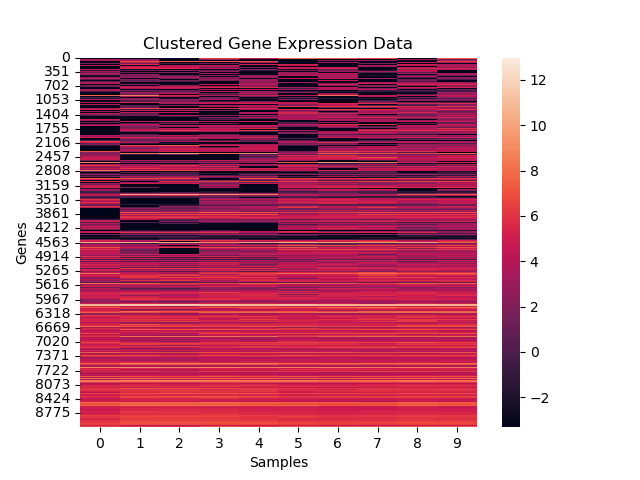
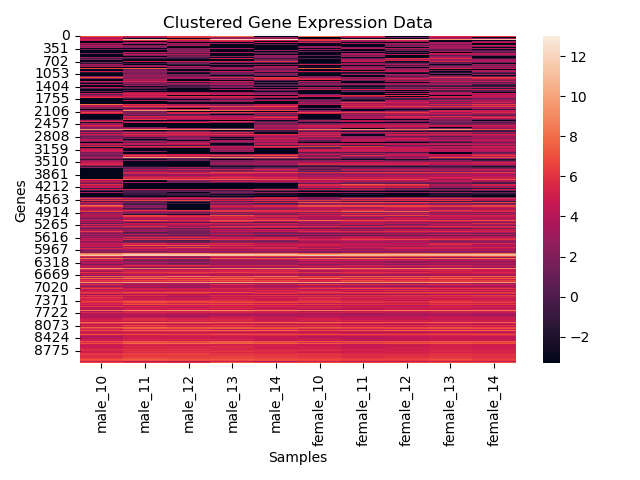
dendrogram added

diff --git a/week9/week9.py b/week9/week9.py
@@ -55,20 +55,22 @@ gene_arr = subset_fpkm_log[leaves_list2]
 sample_arr = gene_arr.T[leaves_list]
 samp_plot = sample_arr.T
 
-# # heatmap
+# heatmap
 fig, ax = plt.subplots()
-ax = sns.heatmap(samp_plot)
+ax = sns.heatmap(samp_plot,
+                xticklabels=col_names[1:])
 ax.set_xlabel("Samples")
 ax.set_ylabel("Genes")
 plt.title("Clustered Gene Expression Data")
+plt.tight_layout()
 plt.savefig("genes_heatmap.png")
 plt.close(fig)
 
 
 # dendrogram
-den_samp_names = col_names[leaves_list]
-print(den_samp_names)
-dendrogram(linkage)
-
-plt.title("Samples")
-plt.show()
+labels = np.array(col_names[1:])[leaves_list]
+dendrogram(linkage, labels=labels)
+plt.title("Dendrogram")
+plt.tight_layout()
+plt.savefig("dendrogram.png")
+plt.close()
